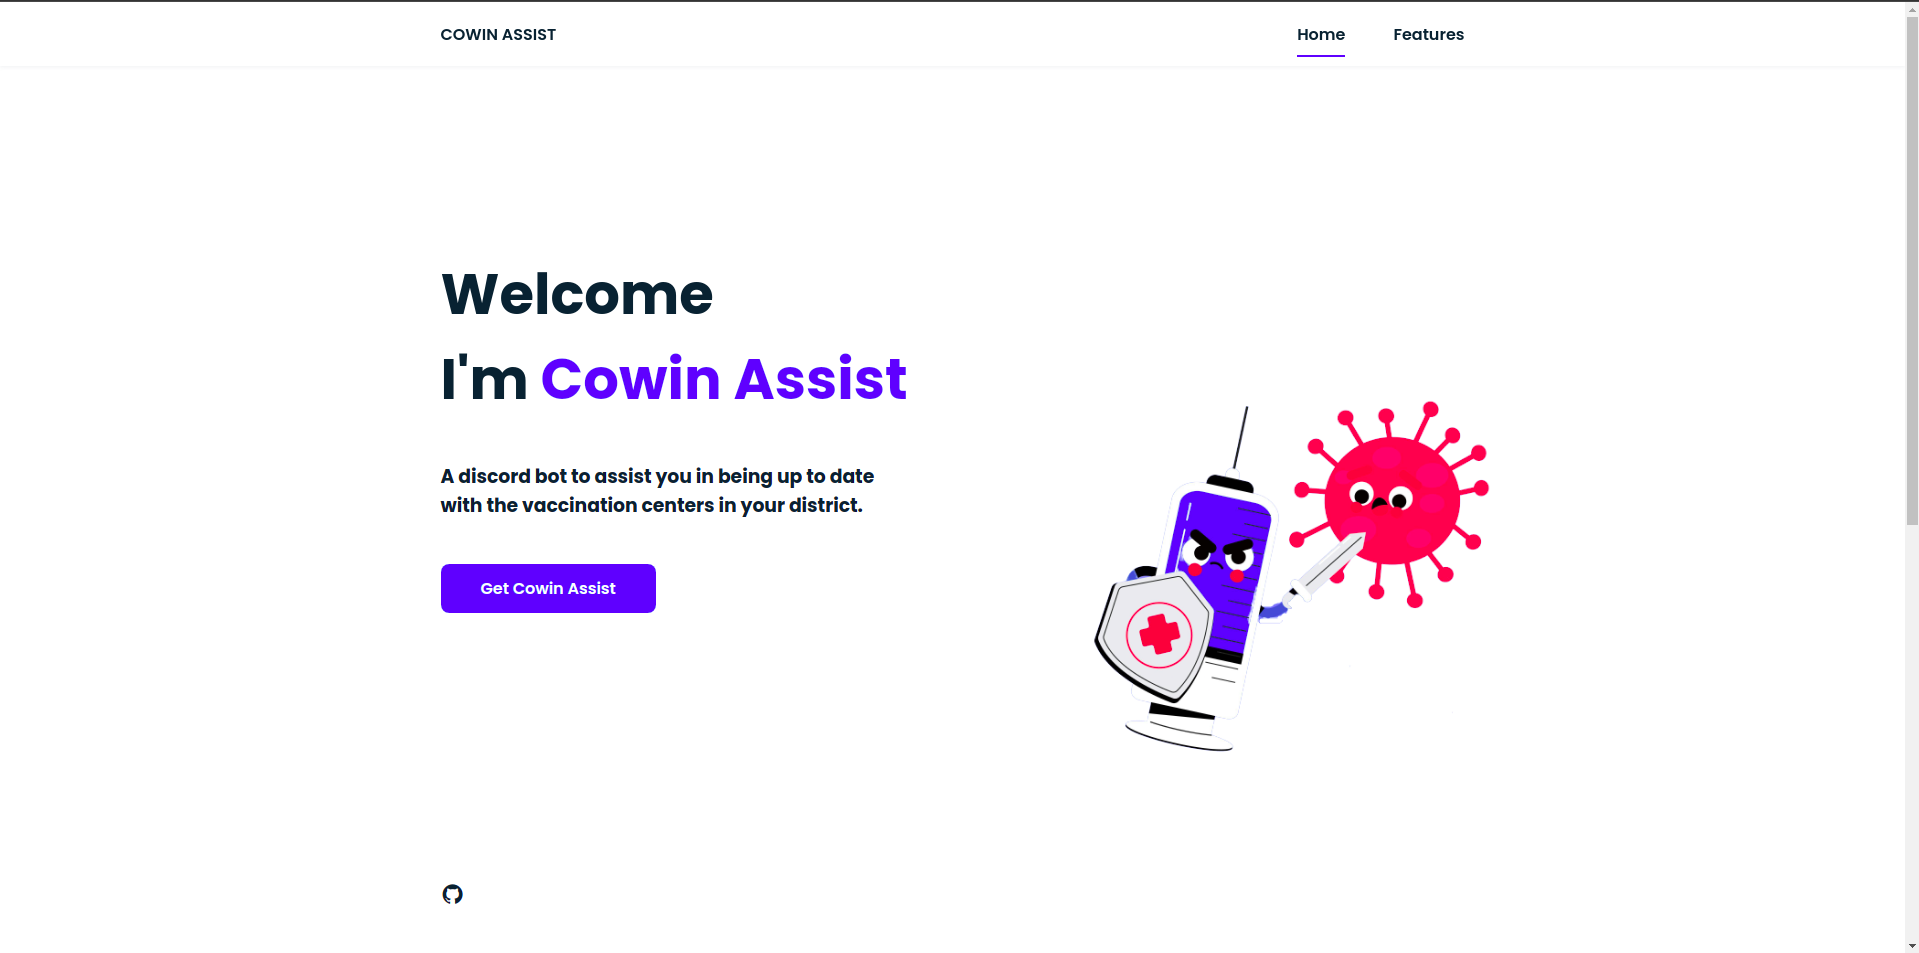
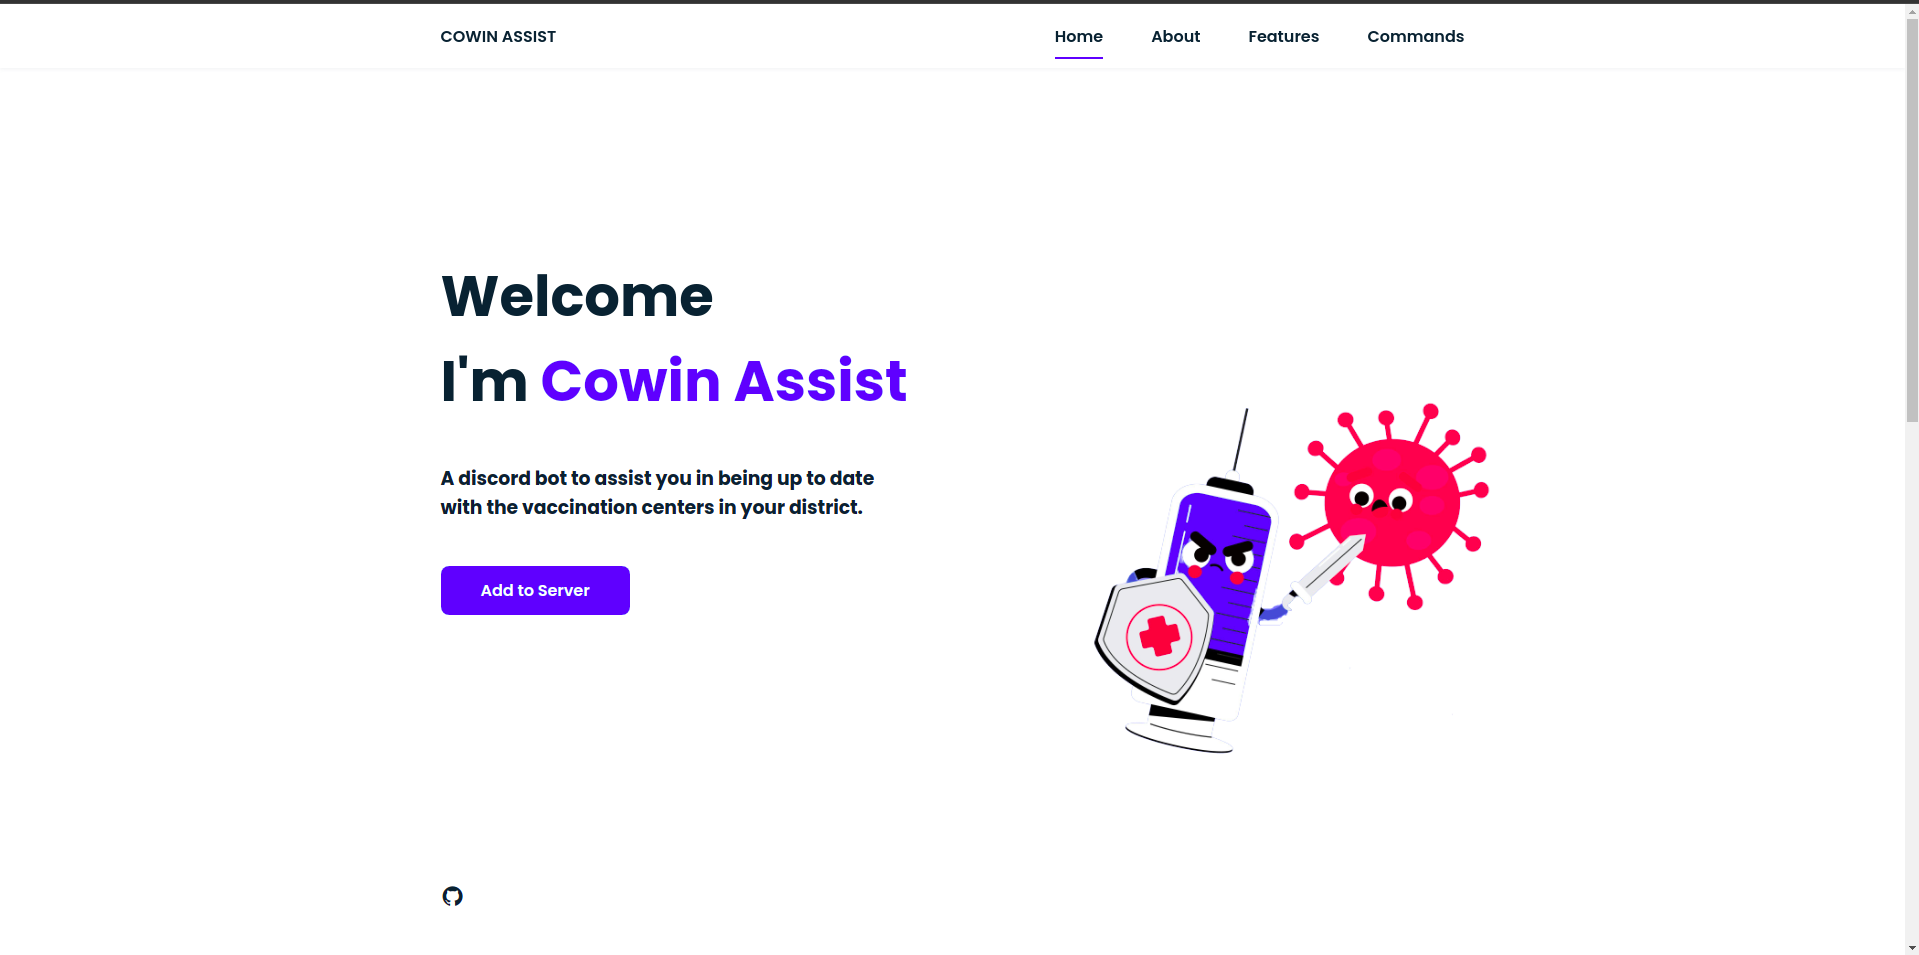
update readme contents

diff --git a/README.md b/README.md
@@ -4,6 +4,7 @@
 
 <!--ts-->
 
+-   [What is Cowin Assist?](#what-is-cowin-assist)
 -   [Features](#features)
 -   [Demo](#demo)
     -   [BOT](#bot)
@@ -14,16 +15,20 @@
 -   [License](#license)
 <!--te-->
 
+### What is Cowin Assist?
+
+Cowin Assist is a chat-bot that lets the user track the availability of covid vaccination centres in India via the [CoWin API](https://apisetu.gov.in/public/api/cowin#/). It has a bunch of commands through which the user can set/update their desired filters to receive up to date information regarding the vaccine centres.
+
 ### Features
 
 The Cowin Assist lets you,
 
 -   To add the discord bot to a server,
--   Register your district, pincode and age (just once, we'll save it for you),
+-   Register your district, pin code and age (just once, we'll save it for you),
 -   Update your saved data if needed,
--   Check for the availability of a vaccine center using the data provided,
+-   Check for the availability of a vaccine centre using the data provided,
 -   Navigate to COWIN site if slot available,
--   Subscribe for hourly update on open slots if available,
+-   Subscribe for an hourly update on open slots if available,
 -   Unsubscribe from the hourly update.
 
 For detailed information regarding the slash commands check [this](commands/README.md) out.
@@ -33,10 +38,17 @@ For detailed information regarding the slash commands check [this](commands/READ
 #### Bot
 
 #### Web Interface
+
 ![Web Interface Image](images/web1.png)
 ![Web Interface Image](images/web2.png)
 
 ### How to add the bot to your server?
+
+1. Visit the official Cowin Assist Bot's website and click on the **Add to server** button.
+2. Then login or register with your discord server.
+3. After logging in, select the server from the list where you wish to display the Bot.
+4. Provide authorization for the Bot to regulate and control your discord server.
+5. Check the **Add the bot to a server** and press the **Authorize** option.
 
 ### Contributing
 
@@ -47,4 +59,5 @@ For detailed information regarding the slash commands check [this](commands/READ
 -   MongoDB
 
 ### License
-This project is licensed under the permissive open source [MIT license](LICENSE).
+
+This project is licensed under the permissive open-source [MIT license](LICENSE).
